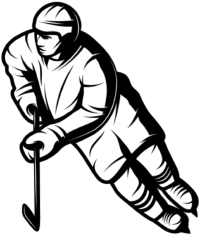
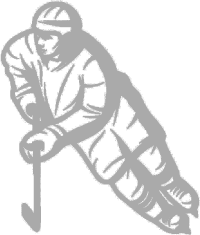
Add files via upload
Farbe des Vordergrunds ändern und toggles hinzugefügt

diff --git a/ImageLayering.py b/ImageLayering.py
@@ -2,7 +2,7 @@ from PIL import Image
 import glob
 import os
 import io
-import numpy
+import numpy as np
 import Util.Util as Util
 import logging
 import configparser
@@ -15,12 +15,20 @@ config.read("config.ini")
 targetwidth = int(config["Default"]["BreiteDesGelayertenBilds"])
 locationx = int(config["Default"]["XWertDesGelayertenBilds"])
 locationy = int(config["Default"]["YWertDesGelayertenBilds"])
+trimmen = Util.str2bool(config["Default"]["SkalierenEingeschaltet"])
+skalieren = Util.str2bool(config["Default"]["TrimmenEingeschaltet"])
 distortion = Util.str2bool(config["Default"]["VerzerrungEingeschaltet"])
 transparenz = Util.str2bool(config["Default"]["TransparenzEingeschaltet"])
+farbe = Util.str2bool(config["Default"]["VordergrundFarbeAendern"])
+farber = int(config["Default"]["VordergrundR"])
+farbeb = int(config["Default"]["VordergrundB"])
+farbeg = int(config["Default"]["VordergrundG"])
+farbealpha = int(config["Default"]["AlphawertVordergrund"])
 fov = int(config["Default"]["VerzerrungsFaktor"])
 grenzwertR = int(config["Default"]["grenzwertR"])
 grenzwertG = int(config["Default"]["grenzwertG"]) 
 grenzwertB = int(config["Default"]["grenzwertB"])
+backgroundalpha = int(config["Default"]["ForegroundAlpha"])
 
 logging.basicConfig(filename="Errorlog.log", level=logging.INFO)
 
@@ -36,38 +44,50 @@ for file in glob.glob(foregroundFolder):
     img = Image.open(file)
     name = img.filename
     img = img.convert("RGBA")
-    try:
-        img = Util.crop(img)
-    except Exception as error:
-        logging.error("problem beim zuschneiden des bilds mit dem namen: " + name + ", evtl kein schwarz im bild vorhanden?" + str(error))
-        print("problem beim zuschneiden des bilds mit dem namen: " + name + ", evtl kein schwarz im bild vorhanden?")
-        print(+ str(error))
-    try:
-        if transparenz:
-            img = Util.tranparent(img, grenzwertR, grenzwertG, grenzwertB)
-    except Exception as error:
-        logging.error("problem beim transparentisieren des bilds mit dem namen: " + name + str(error))
-        print("problem beim transparentisieren des bilds mit dem namen: " + name)
-        print(+ str(error))
+    
+    if trimmen:
+        try:
+            img = Util.crop(img)
+        except Exception as error:
+            logging.error("problem beim zuschneiden des bilds mit dem namen: " + name + ", evtl kein schwarz im bild vorhanden?" + str(error))
+            print("problem beim zuschneiden des bilds mit dem namen: " + name + ", evtl kein schwarz im bild vorhanden?")
+            print(+ str(error))
+    if farbe:        
+        try:
+            img = Util.farbe(img, farber, farbeb, farbeg, farbealpha)
+        except Exception as error:
+            logging.error("problem beim Farbe verändern des Vordergrunds des bilds mit dem namen: " + name + str(error))
+            print("problem beim Farbe verändern des Vordergrunds  des bilds mit dem namen: " + name)
+            print(+ str(error))
+    
+    if transparenz:
+        try:
+                img = Util.tranparent(img, grenzwertR, grenzwertG, grenzwertB, backgroundalpha)
+        except Exception as error:
+            logging.error("problem beim transparentisieren des bilds mit dem namen: " + name + str(error))
+            print("problem beim transparentisieren des bilds mit dem namen: " + name)
+            print(+ str(error))
+
+    
     originalw, originalh = img.size
     factor = originalw / targetwidth
-    try:
-        img = img.resize((targetwidth, int(originalh / factor)), resample=Image.BOX) #diese zeile droppt den filename ??
-    except Exception as error:
-        logging.error("problem beim resizen des bilds mit dem namen: " + name + str(error))
-        print("problem beim resizen des bilds mit dem namen: " + name)
-        print(+ str(error))
-    img.save("Util/esGehtNichtNochUneleganter.png")
+    
+    if skalieren:
+        try:
+            img = img.resize((targetwidth, int(originalh / factor)), resample=Image.BOX) #diese zeile droppt den filename ??
+        except Exception as error:
+            logging.error("problem beim resizen des bilds mit dem namen: " + name + str(error))
+            print("problem beim resizen des bilds mit dem namen: " + name)
+            print(+ str(error))
+        img.save("Util/esGehtNichtNochUneleganter.png")
     
     if distortion:
         try:
             with imgur(filename="Util/esGehtNichtNochUneleganter.png") as img:
                 img.background_color = "transparent"
                 img.virtual_pixel = 'background'
-                
                 img.distort('plane_2_cylinder', (fov, originalw /2, originalh/2))
-                #img.save(filename ='gogdistort1.png')
-                img_buffer=numpy.asarray(bytearray(img.make_blob()), dtype=numpy.uint8)
+                img_buffer=np.asarray(bytearray(img.make_blob()), dtype=np.uint8)
             bytesio = io.BytesIO(img_buffer)
             img = Image.open(bytesio)
         except Exception as error:
@@ -85,9 +105,9 @@ for bg in backgroundlist:
         erg = bg.copy()
         try:
             try:
-                erg.paste(fg, (locationx, locationy), fg.split()[3])
+                erg.paste(fg, (locationx, locationy), fg)
                 erg.save(outputFolder+ "/" + str(name) + ".jpg")
-            except:
+            except Exception as error:
                 erg.paste(fg, (locationx, locationy), fg)
                 erg.save(outputFolder+ "/" + str(name) + ".png")
         except Exception as error:

diff --git a/Util/Util.py b/Util/Util.py
@@ -18,13 +18,26 @@ def crop(img):
     return im_pil
 
 
-def tranparent(img, grenzwertR, grenzwertG, grenzwertB):
+def tranparent(img, grenzwertR, grenzwertG, grenzwertB, alpha):
     datas = img.getdata()
 
     newData = []
     for item in datas:
         if item[0] > grenzwertR and item[1] > grenzwertG and item[2] > grenzwertB:
-            newData.append((255, 255, 255, 0))
+            newData.append((255, 255, 255, alpha))
+        else:
+            newData.append(item)
+
+    img.putdata(newData)
+    return img
+
+def farbe(img, targetR, targetG, targetB, targetAlpha):
+    datas = img.getdata()
+
+    newData = []
+    for item in datas:
+        if item[0] < 255 and item[1] < 255 and item[2] < 255 != 0:
+            newData.append((targetR, targetB, targetG, targetAlpha))
         else:
             newData.append(item)
 
